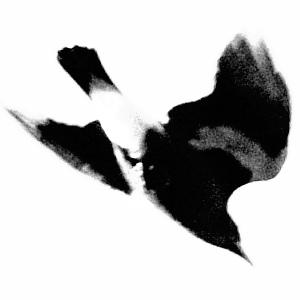
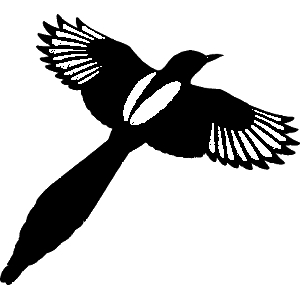
bootstrappifying and cleaning up UI, will look good on a mobile phone

diff --git a/magpie/template/base.html b/magpie/template/base.html
@@ -7,96 +7,106 @@
       {% block title %}{% end block %} :: magpie
     </title>
     <link rel="stylesheet" href="//netdna.bootstrapcdn.com/bootstrap/3.1.1/css/bootstrap.min.css" />
-    <link rel="icon" type="image/jpeg" href="{{ static_url('magpie.jpg') }}" />
+    <link rel="stylesheet" href="{{ static_url('local.css') }}" />
+    <link rel="icon" type="image/png" href="{{ static_url('magpie.png') }}" />
   </head>
   <body {% block bodytag %}{% end block %}>
-    <br>
-    <ul class="nav nav-tabs">
-      <li>
-        <a href="/config" class=config>
-          <span class="glyphicon glyphicon-wrench"></span>
-        </a>
-      </li>
-      <li>
-        <a href="/">
-          <span class="glyphicon glyphicon-home"></span>
-        </a>
-      </li>
-      <!-- new notebook button exposes new notebook form -->
-      <li>
-        <a href="#" onclick="$('#new_notebook_form').removeClass('hidden')">
-          + New Notebook +
-        </a>
-      </li>
-      <!-- hidden new notebook form -->
-      <li class="hidden" id="new_notebook_form">
-        <a href="#">
-          <input type="text" name="new_notebook_name" id="new_notebook_name" />
-          <input onclick="new_notebook(this);" type="button" class="btn btn-primary" value="Create" />
-          <input type="button" class="btn btn-danger" value="Cancel" onclick="uitoggler(this)" />
-        </a>
-      </li>
-
-      <!-- iterate though existing notebooks -->
-{% for notebook in notebooks %}
-  {% if notebook != '.git' %}
-        <li {% if notebook_name == notebook %}class="active"{% end if %}>
-          <a href="/{{ url_escape(notebook) }}">
-            {{ notebook }}
+    <div class="navbar navbar navbar-default" role="navigation">
+      <div class="container">
+        <div class="navbar-header">
+          <button type="button" class="navbar-toggle" data-toggle="collapse" data-target=".navbar-collapse">
+            <span class="sr-only">Toggle Navigation</span>
+            <span class="icon-bar"></span>
+            <span class="icon-bar"></span>
+            <span class="icon-bar"></span>
+          </button>
+{#          <a class="navbar-brand" href="#">magpie</a> #}
+          <a href="/config" class="navbar-brand config">
+            <span class="glyphicon glyphicon-wrench"></span>
           </a>
-        </li>
-  {% end if %}
-{% end for %}
-      </ul>
-      <br>
-      <div class="col-sm-2">
-        <ul class="nav nav-pills nav-stacked">
-        <!-- search -->
-        <li>
-          <form method="GET" action="/search">
-            <div class="form-group">
-              <input type="search" name="q" id="search" size="15"
-              placeholder=" search" tabindex="10">
-              <button class="btn btn-link">
-                <span class="glyphicon glyphicon-search">
-                </span>
-              </button>
-            </div>
-          </form>
-        </li>
-
+          <a href="/" class="navbar-brand">
+            <span class="glyphicon glyphicon-home"></span>
+          </a>
+        </div>
+        <div class="collapse navbar-collapse">
+          <ul class="nav navbar-nav">
+            <li class="dropdown">
+              <a href="#" class="dropdown-toggle" data-toggle="dropdown">Notebooks <span class="caret"></span></a>
+              <ul class="dropdown-menu" role="menu">
+                {# new notebook button exposes new notebook form #}
+                <li>
+                  <a href="#" onclick="$('#new_notebook_form')[$('#new_notebook_form').hasClass('hidden') ? 'removeClass' : 'addClass']('hidden'); arguments[0].stopPropagation();">
+                    + New Notebook +
+                  </a>
+                </li>
+                {# hidden new notebook form #}
+                <li class="hidden" id="new_notebook_form">
+                  <a href="#">
+                    <input type="text" name="new_notebook_name" class="btn-block" id="new_notebook_name" onclick="arguments[0].stopPropagation();" />
+                    <input onclick="new_notebook(this);" type="button" class="btn btn-block btn-primary" value="Create" />
+                    <input type="button" class="btn btn-block btn-danger" value="Cancel" onclick="uitoggler(this)" />
+                  </a>
+                </li>
+                {# iterate though existing notebooks #}
+                {% for notebook in notebooks %}
+                  {% if notebook != '.git' %}
+                        <li {% if notebook_name == notebook %}class="active"{% end if %}>
+                          <a href="/{{ url_escape(notebook) }}">
+                            {{ notebook }}
+                          </a>
+                        </li>
+                  {% end if %}
+                {% end for %}
+              </ul>
+            </li>
 {% if notebook_name != u'' %}
-        <!-- new note button exposes new note form -->
-        <li>
-          <a href="#" onclick="$('#new_note_form').removeClass('hidden');">
-            + New Note +
-          </a>
-        </li>
-        <!-- hidden note form -->
-        <li class="hidden" id="new_note_form">
-          <a href="#">
-            <input type="text" name="new_note_name" id="new_note_name" />
-            <br><br>
-            <input type="button" class="btn btn-primary" value="Create" onclick="new_note(this);" />
-            <input type="button" class="btn btn-danger" value="Cancel" id="cancel" onclick="uitoggler(this);">
-          </a>
-        </li>
+            <li class="dropdown">
+              <a href="#" class="dropdown-toggle" data-toggle="dropdown">Notes <span class="caret"></span></a>
+              <ul class="dropdown-menu" role="menu">
+                <li>
+                  <a href="#" onclick="$('#new_note_form')[$('#new_note_form').hasClass('hidden') ? 'removeClass' : 'addClass']('hidden'); arguments[0].stopPropagation();">
+                    + New Note +
+                  </a>
+                </li>
+                <li class="hidden" id="new_note_form">
+                  <a href="#">
+                    <input type="text" class="btn-block" name="new_note_name" id="new_note_name" onclick="arguments[0].stopPropagation();" />
+                    <input type="button" class="btn btn-block btn-primary" value="Create" onclick="new_note(this);" />
+                    <input type="button" class="btn btn-block btn-danger" value="Cancel" id="cancel" onclick="uitoggler(this);">
+                  </a>
+                </li>
+                {% for note in notes %}
+                        <li {% if note == note_name %}class="active"{% end if %}>
+                            <a href="/{{ url_escape(notebook_name) }}/{{ url_escape(note) }}">
+                            {% if '%s/%s' % (notebook_name, note) in starred_notes %}
+                              <span class='glyphicon glyphicon-star'></span>
+                            {% else %}
+                              <span class='glyphicon glyphicon-star-empty'></span>
+                            {% end if %}
+                            {{ note }}
+                          </a>
+                        </li>
+                {% end for %}
+              </ul>
+ 
+            </li>
 {% end if %}
+            {# SEARCH #}
+            <li>
+              <form method="GET" action="/search" class="navbar-form">
+                <div class="form-group">
+                  <input type="search" name="q" id="search" size="15"
+                  placeholder=" search" tabindex="10">
+                  <button class="btn">
+                    <span class="glyphicon glyphicon-search"></span>
+                  </button>
+                </div>
+              </form>
+            </li>
 
-{# iterate through existing notes #}
-{% for note in notes %}
-        <li {% if note == note_name %}class="active"{% end if %}>
-            <a href="/{{ url_escape(notebook_name) }}/{{ url_escape(note) }}">
-            {% if '%s/%s' % (notebook_name, note) in starred_notes %}
-              <span class='glyphicon glyphicon-star'></span>
-            {% else %}
-              <span class='glyphicon glyphicon-star-empty'></span>
-            {% end if %}
-            {{ note }}
-          </a>
-        </li>
-{% end for %}
-      </ul>
+          </ul>
+        </div>
+      </div>
     </div>
     <div class="container">
       <div class="row">

diff --git a/magpie/template/index.html b/magpie/template/index.html
@@ -7,7 +7,7 @@ Home
 <center>
   <div class=jumbotron>
     <H1>Welcome to Magpie!</H1>
-    <img src="{{ static_url('magpie.jpg') }}"><br><br>
+    <img src="{{ static_url('magpie.png') }}"><br><br>
     <p class=lead>
     I <b><i>love</i></b> <a target=_blank href=https://evernote.com>Evernote</a>,
      but I just don't trust anybody with data I care about anymore, so I

diff --git a/magpie/static/local.css b/magpie/static/local.css
@@ -1,0 +1,3 @@
+.jumbotron > img {
+  max-width: 100%;
+}
